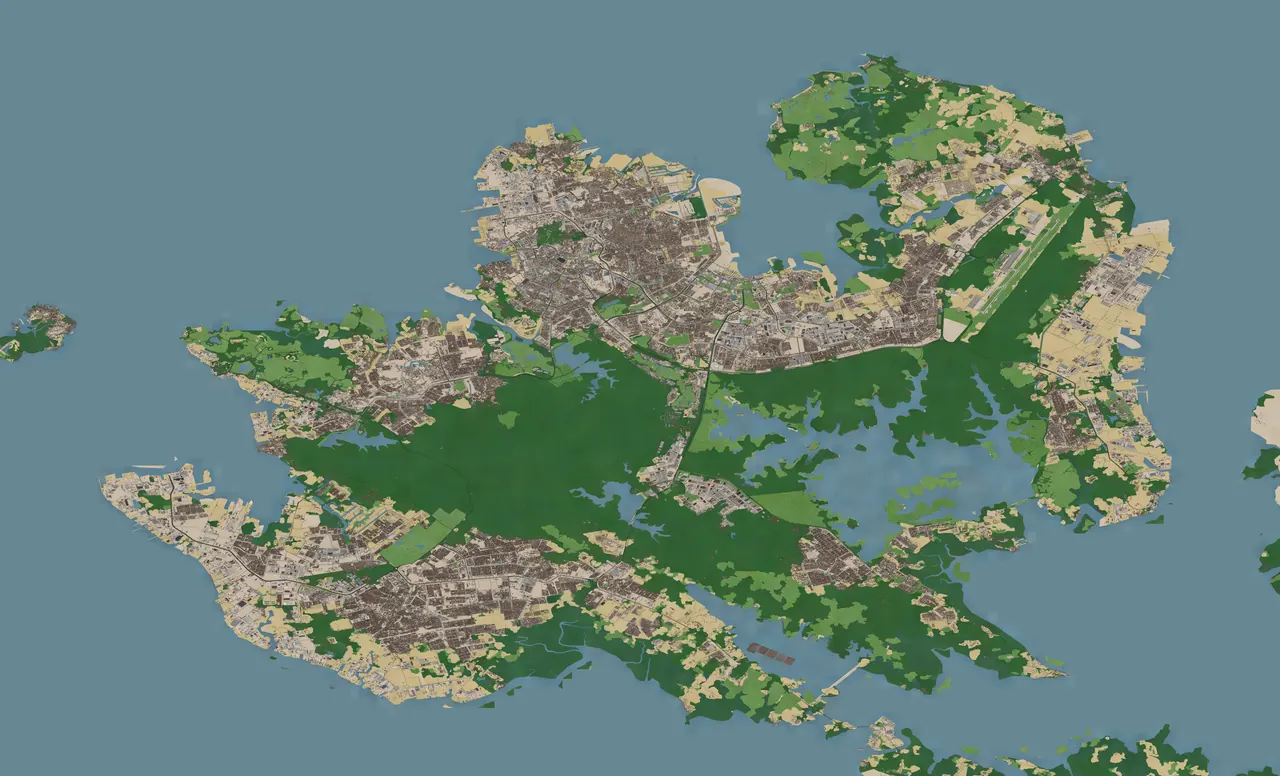
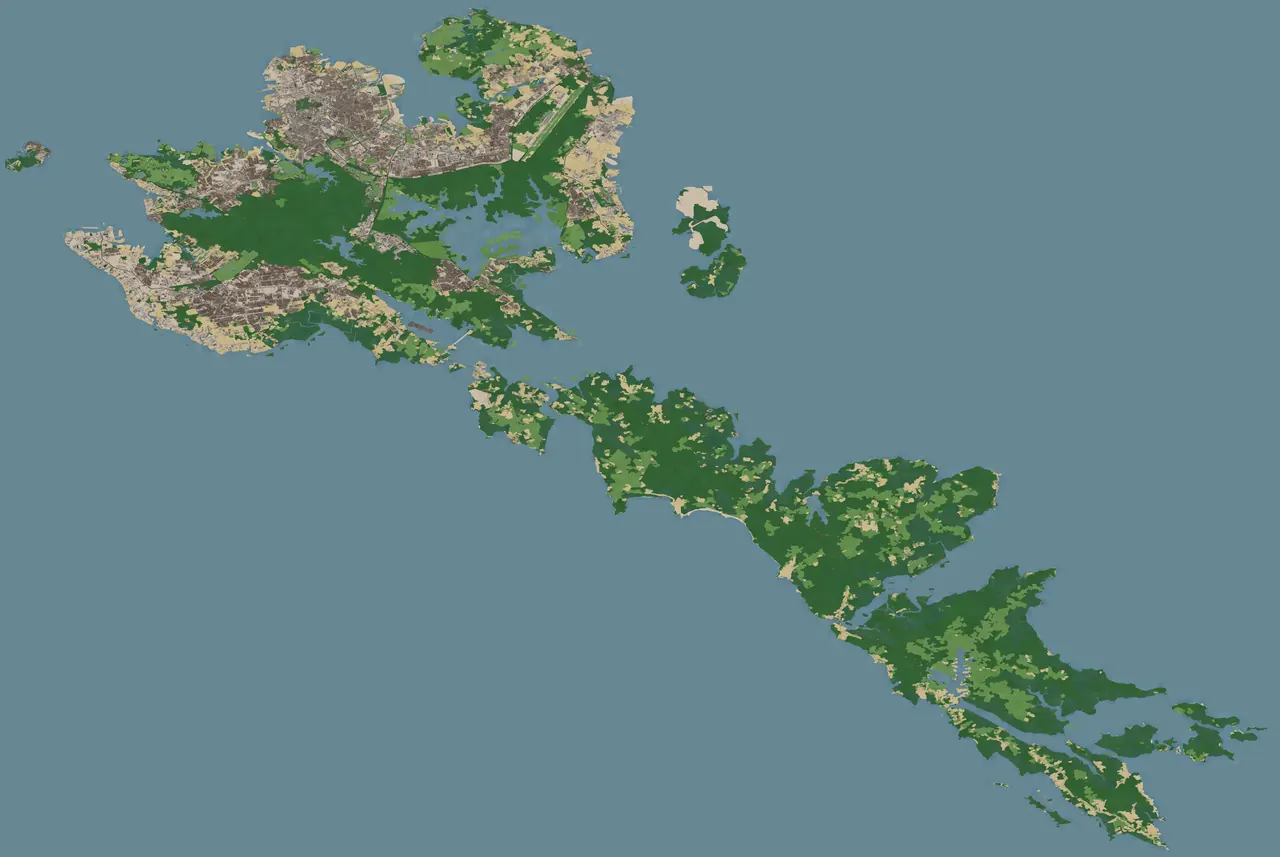
Peta ringan di HP, sampul tampilkan Batam, Rempang, dan Galang
HP memakai drawer canvas dengan kepadatan piksel paling tinggi 1,5;
penanda hanya dipasang bila bisa terlihat dan dibuat saat perlu.
Di HP tiruan (CPU 4x lebih lambat) dari ±5 ke ±30 bingkai/detik di
tampilan jalan. Sampul dan tampilan awal Jelajahi kini memuat seluruh
rangkaian pulau (contain), sisanya laut.

diff --git a/components/site/lapisanTempat.ts b/components/site/lapisanTempat.ts
@@ -133,9 +133,7 @@ const angka = new Intl.NumberFormat("id-ID");
 const desimal = new Intl.NumberFormat("id-ID", { minimumFractionDigits: 1, maximumFractionDigits: 1 });
 
 export const formatRating = (t: Tempat) =>
-  t.ulasan > 0 && t.rating > 0
-    ? `${desimal.format(t.rating)} · ${angka.format(t.ulasan)} ulasan`
-    : "belum ada ulasan";
+  t.ulasan > 0 && t.rating > 0 ? `${desimal.format(t.rating)} · ${angka.format(t.ulasan)} ulasan` : "belum ada ulasan";
 
 export type Penanda = {
   hapus: () => void;
@@ -145,7 +143,15 @@ export type Penanda = {
   rapikanLabel: () => void;
 };
 
-/** Penanda sebagai overlay. Mengembalikan pembersih dan penyaring kategori. */
+/**
+ * Penanda sebagai overlay. Mengembalikan pembersih dan penyaring kategori.
+ *
+ * Hanya penanda yang bisa terlihat (kategorinya menyala, tingkatnya cocok dengan zoom, dan berada di sekitar layar)
+ * yang dipasang ke OpenSeadragon; sisanya dilepas. OpenSeadragon menghitung ulang posisi setiap overlay di setiap
+ * bingkai, jadi 2.263 penanda yang terpasang semua membuat peta patah-patah di HP (diukur di HP tiruan dengan CPU 4x
+ * lebih lambat: ±12 bingkai/detik; tanpa penanda ±60). Daftar dipasang ulang saat peta berhenti bergerak dan saat
+ * saringan berubah (pemilik 11 Nov 2026: "berat kali di hape").
+ */
 export function pasangPenanda(
   O: typeof OpenSeadragon,
   v: OpenSeadragon.Viewer,
@@ -155,12 +161,33 @@ export function pasangPenanda(
   const pelacak: OpenSeadragon.MouseTracker[] = [];
   const elemen: HTMLElement[] = [];
   const prioritas = new Map<HTMLElement, number>();
-  // Yang paling ramai digambar terakhir (di atas); data kota di bawah tempat.
-  const urut = [...data.tempat].sort(
-    (a, b) => Number(data.grup[a.kategori] === "tempat") - Number(data.grup[b.kategori] === "tempat") || b.tingkat - a.tingkat,
-  );
-  for (const t of urut) {
-    if (t.kategori === "malam") continue;
+  // Yang paling ramai digambar paling atas (z-index menurut urutan ini); data kota di bawah tempat.
+  const urut = [...data.tempat]
+    .filter((t) => t.kategori !== "malam")
+    .sort(
+      (a, b) =>
+        Number(data.grup[a.kategori] === "tempat") - Number(data.grup[b.kategori] === "tempat") ||
+        b.tingkat - a.tingkat,
+    );
+  type Isi = {
+    t: Tempat;
+    urutan: number;
+    el: HTMLElement | null;
+    lokasi: OpenSeadragon.Point;
+    mati: boolean;
+    pasang: boolean;
+  };
+  const isi: Isi[] = urut.map((t, urutan) => ({
+    t,
+    urutan,
+    el: null,
+    lokasi: v.viewport.imageToViewportCoordinates(new O.Point(t.x, t.y)),
+    mati: false,
+    pasang: false,
+  }));
+  /** Tombol penanda dibuat saat pertama kali perlu tampil, bukan 2.263 sekaligus saat peta dibuka. */
+  const buat = (p: Isi) => {
+    const { t } = p;
     const el = document.createElement("button");
     el.type = "button";
     el.className = "bch-poi";
@@ -169,6 +196,7 @@ export function pasangPenanda(
     if (data.grup[t.kategori] === "kota") el.dataset.grup = "kota";
     if (t.rekomendasi) el.dataset.rek = "1";
     el.style.setProperty("--poi-warna", warnaKategori(t.kategori));
+    el.style.zIndex = String(p.urutan + 1);
     const ulasan = t.ulasan > 0 ? `, rating ${formatRating(t)}` : "";
     const rek = t.rekomendasi ? ", rekomendasi" : "";
     el.setAttribute("aria-label", `${t.nama}, ${data.kategori[t.kategori] ?? t.kategori}${ulasan}${rek}`);
@@ -179,12 +207,6 @@ export function pasangPenanda(
     nama.className = "bch-poi-nama";
     nama.textContent = t.nama;
     el.append(titik, nama);
-    v.addOverlay({
-      element: el,
-      location: v.viewport.imageToViewportCoordinates(new O.Point(t.x, t.y)),
-      placement: O.Placement.CENTER,
-      checkResize: false,
-    });
     // MouseTracker: klik di penanda tidak dianggap seret peta oleh OpenSeadragon.
     pelacak.push(new O.MouseTracker({ element: el, clickHandler: () => pilih(t) }));
     el.addEventListener("keydown", (e) => {
@@ -195,38 +217,72 @@ export function pasangPenanda(
     });
     elemen.push(el);
     prioritas.set(el, t.tingkat * 1e7 - Math.min(t.ulasan, 9e6));
-  }
+    p.el = el;
+    return el;
+  };
+  const rapikanLabel = () => {
+    for (const el of elemen) el.classList.remove("bch-poi-tabrak");
+    const tampil: { el: HTMLElement; r: DOMRect }[] = [];
+    for (const el of elemen) {
+      if (el.offsetParent === null) continue;
+      const nama = el.querySelector<HTMLElement>(".bch-poi-nama");
+      if (!nama || getComputedStyle(nama).display === "none") continue;
+      tampil.push({ el, r: nama.getBoundingClientRect() });
+    }
+    tampil.sort((a, b) => (prioritas.get(a.el) ?? 0) - (prioritas.get(b.el) ?? 0));
+    const dipakai: DOMRect[] = [];
+    for (const { el, r } of tampil) {
+      const tabrak = dipakai.some(
+        (q) => r.left < q.right + 4 && q.left < r.right + 4 && r.top < q.bottom + 2 && q.top < r.bottom + 2,
+      );
+      if (tabrak) el.classList.add("bch-poi-tabrak");
+      else dipakai.push(r);
+    }
+  };
+  /** Pasang penanda yang bisa terlihat, lepas yang tidak. Tingkat mengikuti data-poi-t dari aturZoomTempat. */
+  const sinkron = () => {
+    const tMaks = Number((v.element as HTMLElement).dataset.poiT ?? "3");
+    const b = v.viewport.getBounds(true);
+    // Separuh layar di tiap sisi supaya penanda sudah ada saat peta digeser.
+    const x0 = b.x - b.width / 2;
+    const x1 = b.x + b.width * 1.5;
+    const y0 = b.y - b.height / 2;
+    const y1 = b.y + b.height * 1.5;
+    let berubah = false;
+    for (const p of isi) {
+      const { x, y } = p.lokasi;
+      const tampil = !p.mati && p.t.tingkat <= tMaks && x >= x0 && x <= x1 && y >= y0 && y <= y1;
+      if (tampil === p.pasang) continue;
+      if (tampil) {
+        const el = p.el ?? buat(p);
+        v.addOverlay({ element: el, location: p.lokasi, placement: O.Placement.CENTER, checkResize: false });
+      } else if (p.el) v.removeOverlay(p.el);
+      p.pasang = tampil;
+      berubah = true;
+    }
+    // Penanda baru diberi posisi pada bingkai berikutnya; label dirapikan sesudahnya.
+    if (berubah) requestAnimationFrame(() => requestAnimationFrame(rapikanLabel));
+  };
+  v.addHandler("animation-finish", sinkron);
+  v.addHandler("resize", sinkron);
+  sinkron();
   return {
     hapus: () => {
+      v.removeHandler("animation-finish", sinkron);
+      v.removeHandler("resize", sinkron);
       pelacak.forEach((p) => p.destroy());
-      elemen.forEach((el) => v.removeOverlay(el));
+      for (const p of isi) if (p.pasang && p.el) v.removeOverlay(p.el);
     },
     saring: (sembunyi, hanyaRek = false) => {
       const s = new Set(sembunyi);
-      for (const el of elemen) {
-        const bukanRek = hanyaRek && el.dataset.grup !== "kota" && el.dataset.rek !== "1";
-        el.classList.toggle("bch-poi-mati", s.has(el.dataset.k ?? "") || bukanRek);
+      for (const p of isi) {
+        const bukanRek = hanyaRek && data.grup[p.t.kategori] !== "kota" && !p.t.rekomendasi;
+        p.mati = s.has(p.t.kategori) || bukanRek;
+        p.el?.classList.toggle("bch-poi-mati", p.mati);
       }
+      sinkron();
     },
-    rapikanLabel: () => {
-      for (const el of elemen) el.classList.remove("bch-poi-tabrak");
-      const tampil: { el: HTMLElement; r: DOMRect }[] = [];
-      for (const el of elemen) {
-        if (el.offsetParent === null) continue;
-        const nama = el.querySelector<HTMLElement>(".bch-poi-nama");
-        if (!nama || getComputedStyle(nama).display === "none") continue;
-        tampil.push({ el, r: nama.getBoundingClientRect() });
-      }
-      tampil.sort((a, b) => (prioritas.get(a.el) ?? 0) - (prioritas.get(b.el) ?? 0));
-      const dipakai: DOMRect[] = [];
-      for (const { el, r } of tampil) {
-        const tabrak = dipakai.some(
-          (q) => r.left < q.right + 4 && q.left < r.right + 4 && r.top < q.bottom + 2 && q.top < r.bottom + 2,
-        );
-        if (tabrak) el.classList.add("bch-poi-tabrak");
-        else dipakai.push(r);
-      }
-    },
+    rapikanLabel,
   };
 }
 
@@ -475,5 +531,8 @@ export function cariTempat(data: DataTempat, teks: string, maks = 8): Tempat[] {
     const awalKata = i === 0 || /\s|\(|-/.test(nama[i - 1]);
     skor.push({ t, s: (awalKata ? 0 : 1e9) + t.tingkat * 1e7 - Math.min(t.ulasan, 9e6) });
   }
-  return skor.sort((a, b) => a.s - b.s).slice(0, maks).map((x) => x.t);
+  return skor
+    .sort((a, b) => a.s - b.s)
+    .slice(0, maks)
+    .map((x) => x.t);
 }

diff --git a/components/site/PetaSampul.tsx b/components/site/PetaSampul.tsx
@@ -47,8 +47,8 @@ const LATAR = process.env.NEXT_PUBLIC_SAMPUL_LATAR || PETA_SAMPUL.latar;
 const POI = process.env.NEXT_PUBLIC_SAMPUL_POI || PETA_SAMPUL.poi;
 /** Lapisan data kota (kecamatan, perumahan, rusunawa, taman, Kebun Raya, waduk, puncak bukit, kawasan industri, mode malam). */
 const KOTA = process.env.NEXT_PUBLIC_SAMPUL_KOTA || PETA_SAMPUL.kota;
-/** Sama dengan object-position gambar sampul, supaya peta muncul tepat di tempat gambarnya. */
-const POSISI_X = 0.42;
+/** Sama dengan object-position gambar sampul (50% 50%), supaya peta muncul tepat di tempat gambarnya. */
+const POSISI_X = 0.5;
 const POSISI_Y = 0.5;
 const POLA_HASH = /^#(\d+),(\d+),(\d*\.?\d+)$/;
 
@@ -92,7 +92,10 @@ export default function PetaSampul() {
   const kanvas = useRef<Kanvas | null>(null);
   const sembunyiRef = useRef<Kategori[]>([]);
 
-  /** Bingkai seperti object-fit: cover dengan object-position 42% 50% (atas seluruh gambar, atau BINGKAI bila diisi). */
+  /**
+   * Bingkai seperti object-fit: contain di tengah (atas seluruh gambar, atau BINGKAI bila diisi): Batam, Rempang, dan
+   * Galang selalu tampil utuh, di laptop maupun HP tegak; sisanya laut (pemilik 11 Nov 2026).
+   */
   const bingkaiSampul = useCallback(() => {
     const v = viewerRef.current;
     const O = osdRef.current;
@@ -108,11 +111,11 @@ export default function PetaSampul() {
     const bh = (y1 - y0) / ukuran.x;
     const rasio = el.clientHeight / Math.max(1, el.clientWidth);
     if (rasio < bh / bw) {
-      const tinggi = rasio * bw;
-      return new O.Rect(bx, by + (bh - tinggi) * POSISI_Y, bw, tinggi);
+      const lebar = bh / rasio;
+      return new O.Rect(bx + (bw - lebar) * POSISI_X, by, lebar, bh);
     }
-    const lebar = bh / rasio;
-    return new O.Rect(bx + (bw - lebar) * POSISI_X, by, lebar, bh);
+    const tinggi = rasio * bw;
+    return new O.Rect(bx, by + (bh - tinggi) * POSISI_Y, bw, tinggi);
   }, []);
 
   const tulisHash = useCallback(() => {
@@ -134,9 +137,16 @@ export default function PetaSampul() {
       O.setString("GestureHints.Scroll", "Tekan {0} sambil menggulir untuk memperbesar peta");
       O.setString("GestureHints.Touch", "Pakai dua jari untuk menggeser peta");
       const diam = tenang();
+      // HP (layar sentuh): drawer WebGL dengan resolusi layar penuh (DPR 2-3) patah-patah dan mengunduh ubin terlalu
+      // tajam. Diukur di HP tiruan (CPU 4x lebih lambat): WebGL ±5 bingkai/detik dan 12 MB, canvas dengan kepadatan
+      // piksel 1,5 ±60 bingkai/detik dan 8 MB untuk tampilan jalan yang sama (pemilik 11 Nov 2026: "berat kali di hape").
+      const hp = !pakaiTetikus();
+      // pixelDensityRatio dibaca drawer saat mengukur kanvas; di tipe OpenSeadragon tertulis hanya-baca.
+      if (hp) (O as unknown as { pixelDensityRatio: number }).pixelDensityRatio = Math.min(window.devicePixelRatio || 1, 1.5);
       const v = O({
         element: wadah.current,
         tileSources: DZI,
+        ...(hp ? { drawer: "canvas" } : {}),
         // Drawer WebGL menolak gambar lintas asal tanpa CORS.
         ...(LINTAS_ASAL ? { crossOriginPolicy: "Anonymous" as const } : {}),
         showNavigationControl: false,

diff --git a/components/site/SampulBeranda.tsx b/components/site/SampulBeranda.tsx
@@ -1,14 +1,16 @@
 import Link from "next/link";
+import type { CSSProperties } from "react";
 import { AlatSampul, MenuSampul } from "@/components/site/MenuSampul";
 import PetaSampul from "@/components/site/PetaSampul";
 import Tanggal from "@/components/site/Tanggal";
+import { PETA_SAMPUL } from "@/lib/peta-sampul";
 import { SITE_LOGO } from "@/lib/site";
 import "./sampul.css";
 
 export type SampulTulisan = { href: string; label: string; judul: string };
 
-// Gambar sampul = satu Pulau Batam dari peta isometrik Barelang (sama dengan bingkai di lib/peta-sampul.ts), dibuat
-// tools/grafis/sampul.mjs dari ubin level 13. Ponsel memakai potongan tegak bagian tengah pulau.
+// Gambar sampul = Batam, Rempang, dan Galang dari peta isometrik Barelang (sama dengan bingkai di lib/peta-sampul.ts),
+// dibuat tools/grafis/sampul.mjs dari ubin level 12. Tampil utuh (object-fit: contain) di laptop dan HP; sisanya laut.
 const LEBAR = [1280, 1920, 2560];
 const srcset = (nama: string, lebar: number[]) => lebar.map((w) => `/grafis/sampul/${nama}-${w}.webp ${w}w`).join(", ");
 
@@ -18,17 +20,20 @@ const srcset = (nama: string, lebar: number[]) => lebar.map((w) => `/grafis/samp
  */
 export default function SampulBeranda({ tulisan }: { tulisan: SampulTulisan | null }) {
   return (
-    <section className="bch-sampul" aria-label="Sampul">
+    <section
+      className="bch-sampul"
+      aria-label="Sampul"
+      style={{ "--bch-peta-laut": PETA_SAMPUL.latar } as CSSProperties}
+    >
       <picture>
-        <source media="(max-aspect-ratio: 4/5)" srcSet={srcset("barelang-tegak", [720, 1080])} sizes="100vw" />
         {/* Gambar sudah diolah tools/grafis/sampul.mjs dan dipilih lewat <picture>, jadi tidak lewat next/image. */}
         <img
           src="/grafis/sampul/barelang-1920.webp"
           srcSet={srcset("barelang", LEBAR)}
           sizes="100vw"
           width={1920}
-          height={960}
-          alt="Peta isometrik Pulau Batam dikelilingi laut: kota di utara dan barat daya, hutan dan waduk di tengah pulau"
+          height={1285}
+          alt="Peta isometrik Batam, Rempang, dan Galang yang berderet dari barat laut ke tenggara, dikelilingi laut"
           fetchPriority="high"
           decoding="async"
         />

diff --git a/lib/peta-sampul.ts b/lib/peta-sampul.ts
@@ -12,8 +12,11 @@ export const PETA_SAMPUL = {
   /** Data kota: kecamatan, perumahan, rusunawa, taman, Kebun Raya, waduk, puncak bukit, kawasan industri, mode malam. */
   kota: `${ASAL}/${VERSI}/lapisan_kota.json`,
   judul: "Barelang",
-  /** Area sampul saat situs dibuka: satu Pulau Batam penuh (pemilik 11 Nov 2026), dalam piksel peta penuh x0,y0,x1,y1. */
-  bingkai: "2048,0,137216,81920",
+  /**
+   * Area sampul dan tampilan awal Jelajahi: Batam, Rempang, dan Galang utuh (pemilik 11 Nov 2026: "jangan cuma batam
+   * tapi juga rempang dan galang"), dalam piksel peta penuh x0,y0,x1,y1. Ditampilkan seperti object-fit: contain.
+   */
+  bingkai: "0,4096,253952,174080",
   /** Warna laut ubin, untuk latar di luar tepi gambar saat diperkecil penuh. */
   latar: "#668793",
 };

diff --git a/components/site/sampul.css b/components/site/sampul.css
@@ -8,7 +8,8 @@
   max-height: 1100px;
   overflow: hidden;
   isolation: isolate;
-  background: #cfdce4;
+  /* Laut di sekitar rangkaian pulau (gambar dan peta ditampilkan utuh, sisanya laut). */
+  background: var(--bch-peta-laut, #cfdce4);
 }
 .bch-sampul picture,
 .bch-sampul img {
@@ -18,8 +19,8 @@
   height: 100%;
 }
 .bch-sampul img {
-  object-fit: cover;
-  object-position: 42% 50%;
+  object-fit: contain;
+  object-position: 50% 50%;
   z-index: -2;
 }
 .bch-sampul picture {

diff --git a/docs/CHANGELOG.md b/docs/CHANGELOG.md
@@ -7,7 +7,8 @@ Keputusan pemilik 11 November 2026 ("ditayangkan, gausah ngelarang ngelarang"; "
 - **Ubin di Cloudflare Pages** proyek `barelang-peta` (https://barelang-peta.pages.dev), paket gratis tanpa kartu (pemilik: "pastikan tidak ada biaya"). Pages Free membatasi 20.000 berkas per situs, jadi `tools/peta/ubin_publik.py` menjahit ubin DZI 512 px barelang-iso (233 ribu berkas) menjadi ubin 2048 px: 14.574 ubin, 1,2 GB, gambar sama (selisih piksel rata-rata di bawah 1,5 dari 255 karena simpan ulang WebP). Berkas `_headers` mengizinkan CORS dan menyimpan ubin lama di peramban. Situs tetap di Railway; Cloudflare hanya menyimpan peta.
 - `lib/peta-sampul.ts` menyimpan alamat dan versi peta (`barelang-v2-20261110`), bingkai sampul, warna laut, serta data lapisan tempat dan data kota di folder versi yang sama. Versi baru: jalankan `ubin_publik.py`, unggah, lalu ganti `VERSI`. Env `NEXT_PUBLIC_SAMPUL_*` tetap bisa menimpa untuk uji lokal (`.env.example`).
 - Penampil dari salinan repo di Desktop (`9c1c960..be32f20`, hanya `PetaSampul.tsx`, `lapisanTempat.ts`, `sampul.css`): lapisan tempat dan data kota, cari tempat, saringan Tempat dan Data Kota, Rekomendasi Saja, Hapus Semua, kartu tempat dengan tautan Google Maps (place ID), mode malam. Label tombol dan nama kategori kini Title Case (PEDOMAN koreksi 4). Bintang rekomendasi digambar sebagai SVG, bukan karakter, dan "Sumber:" di kartu menjadi "Data dari" (cek bahasa).
-- **Sampul langsung satu Pulau Batam** (pemilik: "maksudku langsung full 1 pulau"): bingkai `2048,0,137216,81920`, gambar sampul dari ubin level 13 (4224 × 2560 px, `tools/grafis/sampul.mjs`, `public/grafis/sampul/barelang-*.webp`), jadi ponsel yang belum membuka Jelajahi juga melihat peta Barelang. Judul Jurnal terbaru pindah ke kiri bawah (26–44 px, baris dibagi rata) supaya peta jadi pusat sampul.
+- **Sampul langsung Batam, Rempang, dan Galang** (pemilik: "maksudku langsung full 1 pulau", lalu "jangan cuma batam tapi juga rempang dan galang"): bingkai `0,4096,253952,174080` ditampilkan seperti `object-fit: contain` (peta dan gambar sampul utuh di laptop dan HP tegak, sisanya warna laut `--bch-peta-laut`). Gambar sampul dari ubin level 12 (3968 × 2656 px, `tools/grafis/sampul.mjs`, `public/grafis/sampul/barelang-*.webp`); potongan tegak untuk HP dihapus karena gambar utuh dipakai di semua layar. Judul Jurnal terbaru pindah ke kiri bawah (26–44 px, baris dibagi rata) supaya peta jadi pusat sampul.
+- **Peta ringan di HP** (pemilik: "berat kali di hapeku"). Diukur di HP tiruan (Pixel 7, CPU 4x lebih lambat, tampilan jalan Nagoya): sebelumnya ±5 bingkai/detik dan 12 MB ubin. Penyebabnya drawer WebGL dengan resolusi layar penuh dan 2.263 penanda yang posisinya dihitung ulang tiap bingkai. Perbaikan: layar sentuh memakai drawer canvas dengan kepadatan piksel paling tinggi 1,5; penanda hanya dipasang bila kategorinya menyala, tingkatnya cocok dengan zoom, dan berada di sekitar layar (dipasang ulang saat peta berhenti), dan tombolnya baru dibuat saat pertama perlu tampil. Hasil: ±30 bingkai/detik di tampilan jalan, ±60 di tampilan seluruh pulau, 8 MB ubin, ±30 penanda terpasang. Laptop tetap WebGL.
 - **Jelajahi Peta dirapikan** (pemilik: "bisa ngerapiin, logonya kok ga sama dengan homepage"): nama peta memakai gaya logo beranda (BARELANG, Plus Jakarta Sans 800); 26 tombol saringan masuk panel "Tampilkan di Peta" yang dibuka tombol Lapisan (dengan jumlah lapisan menyala), Hapus Semua pindah ke panel.
 - **Atribusi di peta hanya "© OpenStreetMap"** (pemilik: "openstreetmap aja"), teks putih kecil berbayang di pojok kanan bawah seperti peta lain, di sampul dan Jelajahi. Keterangan AI dan sumber lapisan (Google Maps; HANG JEBAT, BP Batam, Satu Data Batam) pindah ke Kolofon. Standar Redaksi kini menyatakan gambar AI disebutkan di Kolofon (diperbarui 11 November 2026).
 - `tests/e2e/situs.spec.ts`: asal ubin peta di Cloudflare Pages kini boleh dipanggil beranda; asal luar lain tetap dilarang.
